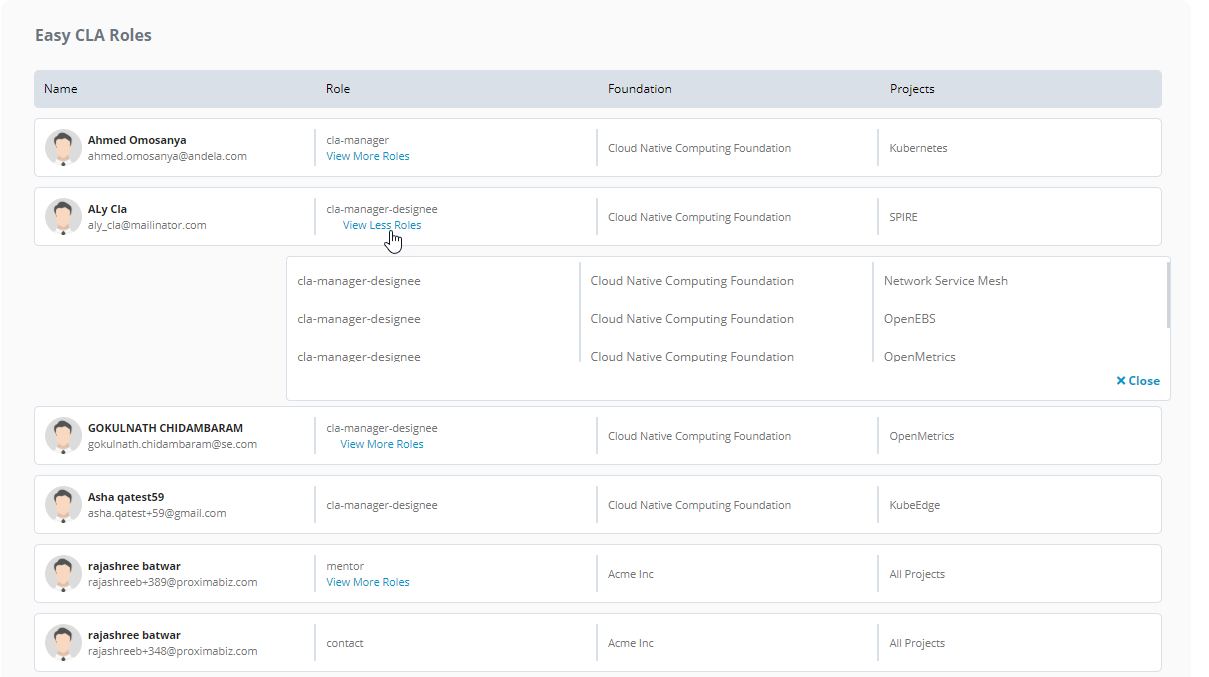
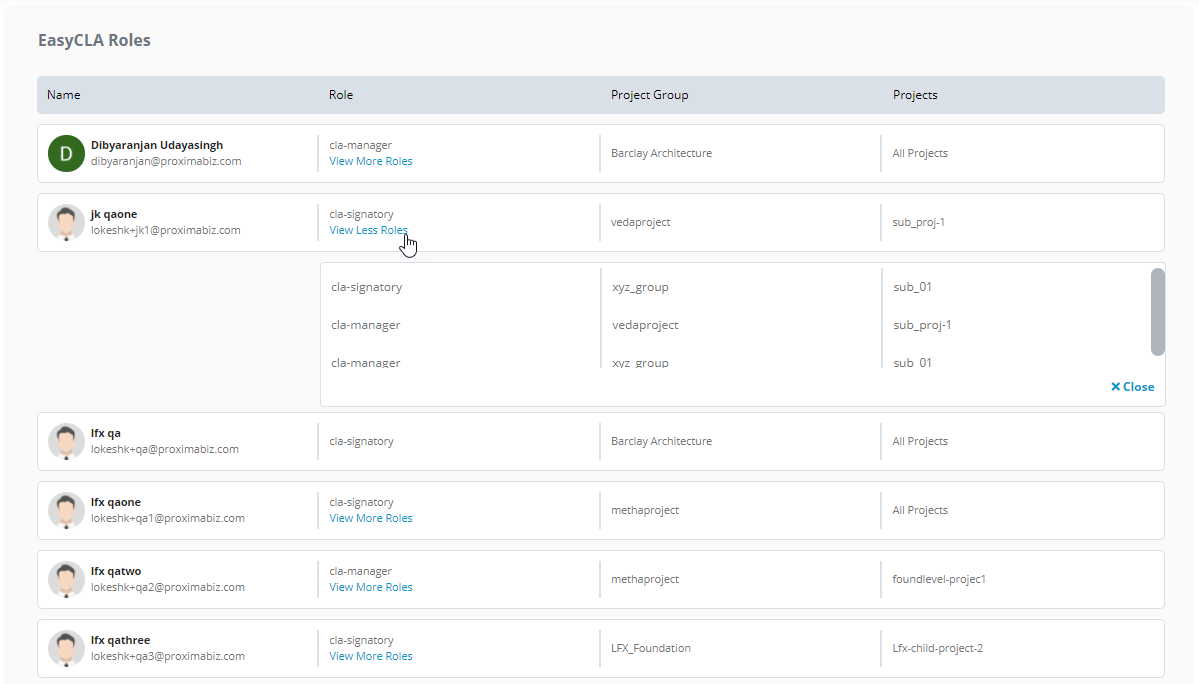
GitBook: [v2] 3 pages and one asset modified

diff --git a/communitybridge/company-dashboard/dashboard.md b/communitybridge/company-dashboard/dashboard.md
@@ -1,9 +1,5 @@
 # Dashboard
 
-{% hint style="info" %}
-The data for individual dashboards of this page varies based on the user's role.
-{% endhint %}
-
 ![Company Dashboard](../../.gitbook/assets/company-dashboard.png)
 
 Following are the aggregate data of all projects that use CLA.
@@ -25,10 +21,10 @@ Following are the aggregate data of all projects that use CLA.
 **Project Group** is also referred as **Project** in the document.
 {% endhint %}
 
-A project group is a parent project of individual projects. A project  Navigate to a project or type a project name in the search box and press Enter to view the project. Click a project to navigate to project details page. For project details, see **`LINK WITH TEXT`**
+A project group is a parent project of individual projects. A project  Navigate to a project or type a project name in the search box and press Enter to view the project. Click a project to navigate to project details page. For project details, see [Projects](projects/).
 
 * **Project Group** shows the project name.
-* **No. of Projects** shows the total number of projects that are CLA enabled under a group of projects. Click the number to see the project names as shown in the following image. A project name under **No. of Projects** indicates that it is an individual project and doesn't come under any project group.
+* **No. of Projects** shows the total number of projects that are CLA enabled under a group of projects. Click the number to see the project names as shown in the following image.  **Note:** A project name under **No. of Projects** indicates that it is an individual project and doesn't come under any project group.
 
 Click a project group or a project under a project group to view CLA information for a [Project Group](projects/#project-group) or an[ Individual Project](projects/#project).
 

diff --git a/communitybridge/company-dashboard/manage-your-organization.md b/communitybridge/company-dashboard/manage-your-organization.md
@@ -102,7 +102,7 @@ Below Organization profile header section, you can see a section where you can a
 
 4. Click **Save**.
 
-If the user you added as an administrator doesn't have a [Single Sign-On \(SSO\)](../../sso/) account with Linux Foundation, **Pending Invitation** shows next to their name as shown in the image below. The individual receives an invitation email from Linux Foundation. After they accept the invitation, and create their SSO account with Linux Foundation, they become administrators for your organization.
+**Note:** If the user you added as an administrator doesn't have a [Single Sign-On \(SSO\)](../../sso/) account with Linux Foundation, **Pending Invitation** shows next to their name as shown in the image below. The individual receives an invitation email from Linux Foundation. After they accept the invitation, and create their SSO account with Linux Foundation, they become administrators for your organization.
 
 ![Pending Invitation](../../.gitbook/assets/pending-invitation.png)
 
@@ -120,5 +120,5 @@ You cannot edit or delete CLA role\(s\) of a team member.
 
 If a user has more than one role, click **View More Roles** to know more about the other roles the user is associated with.
 
-![Easy CLA Roles](https://gblobscdn.gitbook.com/assets%2F-M2DCN9UgoRgMEkgnLyP%2F-MA6GWiKNR8NbAdZLdDp%2F-MA6O4zqZFzPYn1twztn%2Feasycla%20roles.png?alt=media&token=763919ba-0f4e-4d26-a1af-81949219593b)
+![EasyCLA Roles](../../.gitbook/assets/easycla-roles.png)
 

diff --git a/communitybridge/company-dashboard/projects/README.md b/communitybridge/company-dashboard/projects/README.md
@@ -40,7 +40,7 @@ It shows a table that lists the CLAs signed by your company with the project:
 * **Status** shows CLA status—Signed/Not signed.
 * **Signed on** shows the date when CLA was signed.
 * **Signed By** shows name of the person who signed the CLA.
-* **Download** lets you download PDF file of the signed CLA.
+* **Download** \(shows if CLA is signed\) lets you download PDF file of the signed CLA.
 
 #### CLA MANAGERS FROM MY ORGANIZATION <a id="cla-managers-from-my-organization"></a>
 
